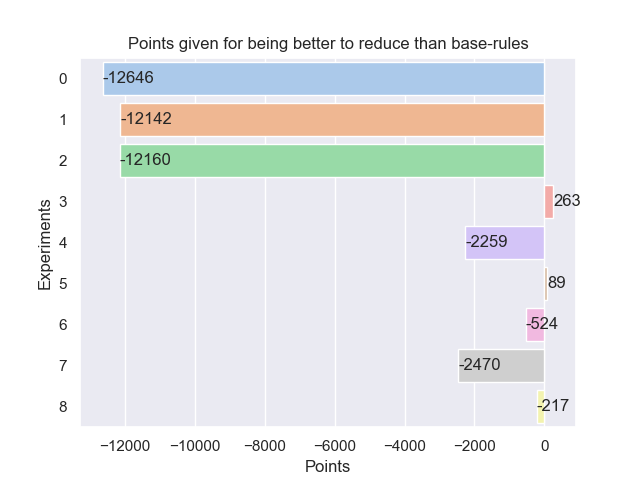
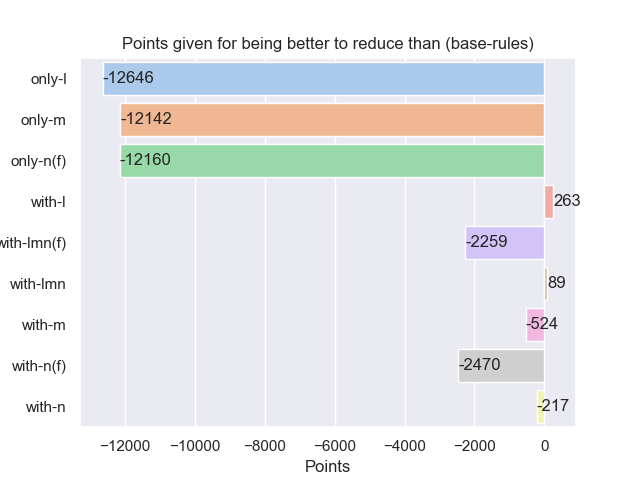
fixes reduction_point graph

diff --git a/graph_utility/reduction_points.py b/graph_utility/reduction_points.py
@@ -7,7 +7,7 @@ import seaborn as sns
 import copy
 
 
-def plot(data_list, test_names, graph_dir, correct_results_name):
+def plot(data_list, test_names, graph_dir, experiment_to_compare_against_name):
     """
         Gives point for to each experiment, for each (model/query) combination they can reduce to a smaller size
         than another given experiment. Default is (base-rules)
@@ -47,12 +47,13 @@ def plot(data_list, test_names, graph_dir, correct_results_name):
     for data in data_list:
         data.drop(rows_to_delete, inplace=True)
 
-    base_results_index = test_names.index(correct_results_name)
+    base_results_index = test_names.index(experiment_to_compare_against_name)
     base_results = data_list[base_results_index]
     data_list.pop(base_results_index)
     test_names.pop(base_results_index)
 
     points = dict()
+    sums = []
     for test_index, data in enumerate(data_list):
         sum = 0
         for index, row in data.iterrows():
@@ -79,20 +80,15 @@ def plot(data_list, test_names, graph_dir, correct_results_name):
                     '(reduction_points) Should not be able to reach this. '
                     'Something went wrong with the checks for "NONE"')
 
-        points[f'{test_names[test_index]}'] = sum
+        sums.append(sum)
 
-    # https://stackoverflow.com/questions/31632637/label-axes-on-seaborn-barplot
-    # Make dict like this and plot
-    points_df = pd.DataFrame.from_dict(data=points, orient='index').T
-    points_df = pd.melt(points_df)
-    print(points_df)
+    points_df = pd.DataFrame({'names': test_names, 'sums': sums})
+
     sns.set_theme(style="darkgrid", palette="pastel")
-    plot = sns.barplot(data=points_df, x=points.value, y={test_names})
-    plot.set(
-        xlabel='Points',
-        ylabel='Experiments',
-        yscale="linear",
-        title=f'Points given for being better to reduce than {correct_results_name}')
+    plot = sns.barplot(x='sums', y='names', data=points_df)
+    plt.xlabel("Points")
+    plt.ylabel('Experiments')
+    plt.title(f'Points given for being better to reduce than ({experiment_to_compare_against_name})')
 
     # This for-loop puts the number of times each rule has been used, on top of the bar
     for p in plot.patches:
@@ -110,9 +106,9 @@ def plot(data_list, test_names, graph_dir, correct_results_name):
 if __name__ == "__main__":
     # What we assume to be correct results
     if len(sys.argv) == 1:
-        correct_results_name = 'base-rules'
+        experiment_to_compare_against_name = 'base-rules'
     else:
-        correct_results_name = sys.argv[1]
+        experiment_to_compare_against_name = sys.argv[1]
 
     # Find the directory to save figures
     script_dir = os.path.dirname(__file__)
@@ -125,18 +121,19 @@ if __name__ == "__main__":
     csv_dir = os.path.join(script_dir, '..\\saved\\')
 
     # Read csv data
-    csvs = [file for file in os.listdir(csv_dir) if ('.csv' in file) and (correct_results_name not in file)]
+    csvs = [file for file in os.listdir(csv_dir) if
+            ('.csv' in file) and (experiment_to_compare_against_name not in file)]
 
     # Find names of the tests, to be used in graphs and file names
     test_names = [os.path.split(os.path.splitext(csv)[0])[1] for csv in csvs]
 
     try:
-        correct_results = pd.read_csv(csv_dir + correct_results_name + '.csv')
+        correct_results = pd.read_csv(csv_dir + experiment_to_compare_against_name + '.csv')
     except:
         raise Exception(
-            f'(reduction_points)({correct_results_name}) is not present in saved/ and cannot be used as basis for comparison. '
+            f'(reduction_points)({experiment_to_compare_against_name}) is not present in saved/ and cannot be used as basis for comparison. '
             f'Check if you made a typo in the parameter to the program')
 
     data_list = [pd.read_csv(csv_dir + csv) for csv in csvs]
 
-    plot(data_list, test_names, graph_dir, correct_results_name)
+    plot(data_list, test_names, graph_dir, experiment_to_compare_against_name)

diff --git a/graph_utility/all_graphs.py b/graph_utility/all_graphs.py
@@ -25,32 +25,32 @@ def plot_all(data_list, test_names, graph_dir, correct_results_name):
     graphs_made = 0
 
     # Call each graph function with relevant data
-    # answer_simplification_bars.plot(data_list, test_names, graph_dir)
+    answer_simplification_bars.plot(data_list, test_names, graph_dir)
     graphs_made = graphs_made + 1
     print(f"{graphs_made}/{num_graphs} graphs done")
 
-    # rule_usage_absolute.plot(data_list, test_names, graph_dir)
+    rule_usage_absolute.plot(data_list, test_names, graph_dir)
     graphs_made = graphs_made + 1
     print(f"{graphs_made}/{num_graphs} graphs done")
 
-    # rule_usage_percentage.plot(data_list, test_names, graph_dir)
+    rule_usage_percentage.plot(data_list, test_names, graph_dir)
     graphs_made = graphs_made + 1
     print(f"{graphs_made}/{num_graphs} graphs done")
 
-    # reduced_size.plot(data_list, test_names, graph_dir)
+    reduced_size.plot(data_list, test_names, graph_dir)
     graphs_made = graphs_made + 1
     print(f"{graphs_made}/{num_graphs} graphs done")
 
-    # time_memory_combined.plot(data_list, test_names, graph_dir)
+    time_memory_combined.plot(data_list, test_names, graph_dir)
     graphs_made = graphs_made + 1
     print(f"{graphs_made}/{num_graphs} graphs done")
 
     metrics = ['time', 'memory']
     for metric in metrics:
-        # time_memory.plot(data_list, test_names, graph_dir, metric)
+        time_memory.plot(data_list, test_names, graph_dir, metric)
         pass
-    graphs_made = graphs_made + 1
-    print(f"{graphs_made}/{num_graphs} graphs done")
+        graphs_made = graphs_made + 1
+        print(f"{graphs_made}/{num_graphs} graphs done")
 
     reduction_points.plot(data_list, test_names, graph_dir, correct_results_name)
     graphs_made = graphs_made + 1
